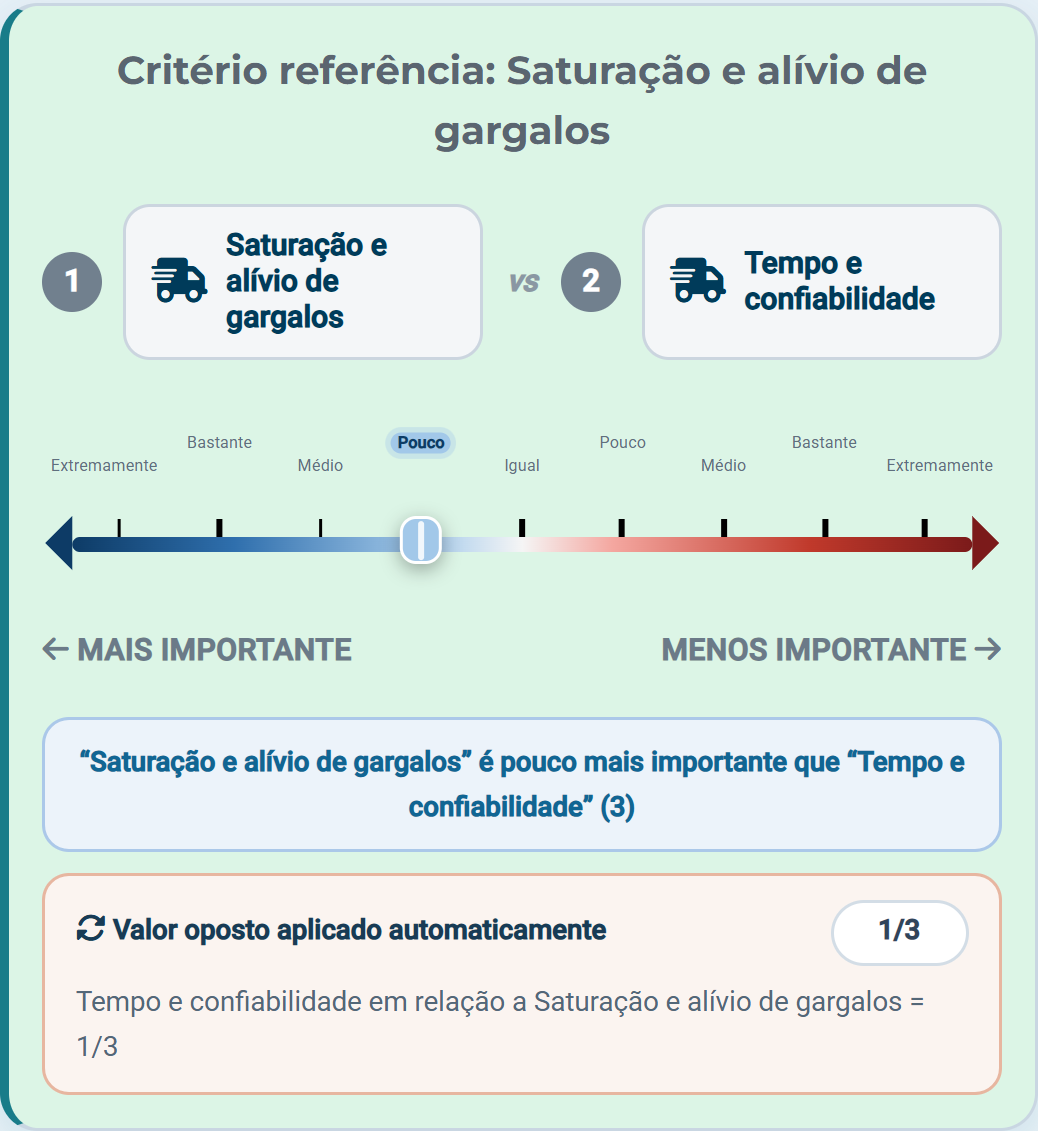
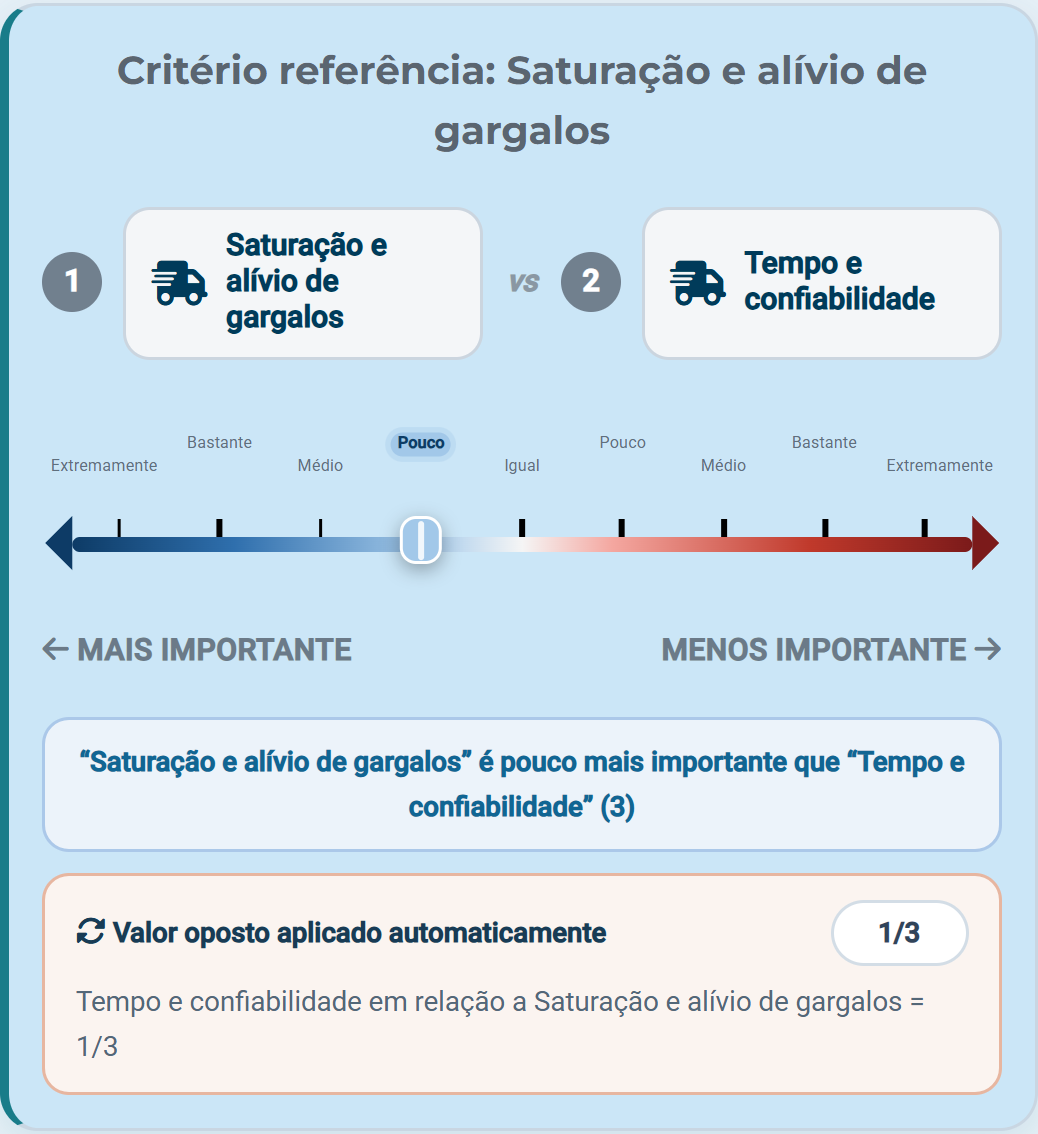
chore: atualizacao SICARD 2026-11-26 16:42

diff --git a/assets/js/paginas/ami-divulgacao.js b/assets/js/paginas/ami-divulgacao.js
@@ -2,7 +2,8 @@
   "use strict";
   const $ = id => document.getElementById("ami-divulgacao-" + id);
   const painel = document.getElementById("ami-divulgacao");
-  const tabela = $("tabela"), contatoForm = $("contato"), assunto = $("assunto"), mensagem = $("mensagem");
+  const tabela = $("tabela"), contatoForm = $("contato"), remetente = $("alias-remetente"),
+    assunto = $("assunto"), mensagem = $("mensagem");
   const mensagemDepois = $("mensagem-depois");
   const modal = $("modal"), modalForm = $("modal-form");
   const envio = {enviando: "Resultado pendente", aceito_smtp: "Aceito pelo servidor de e-mail", falha: "Falha no envio", indeterminado: "Resultado indeterminado"};
@@ -14,18 +15,20 @@
   }
 
   function mensagemEditada(contexto) {
-    if (!assunto.reportValidity()) return null;
-    if (!assunto.value.trim() || (!mensagem.value.trim() && !mensagemDepois.value.trim())) {
-      $("status").textContent = "Informe o assunto e a mensagem.";
+    if (!remetente.reportValidity() || !assunto.reportValidity()) return null;
+    const alias_remetente = remetente.value.trim();
+    if (!alias_remetente || !assunto.value.trim() || (!mensagem.value.trim() && !mensagemDepois.value.trim())) {
+      $("status").textContent = "Informe o nome do remetente, o assunto e a mensagem.";
       return null;
     }
-    return {assunto: assunto.value, texto: textoDoEditor(contexto)};
+    return {alias_remetente, assunto: assunto.value, texto: textoDoEditor(contexto)};
   }
 
   function aplicarEdicao(contexto, edicao) {
     if (contexto !== atual) return;
     const conteudo = edicao.rascunho || edicao.padrao;
     const indice = conteudo.texto.indexOf(contexto.link);
+    remetente.value = conteudo.alias_remetente;
     assunto.value = conteudo.assunto;
     mensagem.value = indice < 0 ? conteudo.texto : conteudo.texto.slice(0, indice).trimEnd();
     mensagemDepois.value = indice < 0 ? "" : conteudo.texto.slice(indice + contexto.link.length).trimStart();
@@ -82,7 +85,7 @@
     $("prazo").classList.toggle("is-hidden", modo !== "edit" || !atual || coletaAberta);
     $("pendencias").classList.toggle("is-hidden", modo !== "edit" || !pendente);
     [$("nome"), $("email"), $("instituicao"), $("adicionar"), $("arquivo"), $("listas")].forEach(campo => { campo.disabled = !pronto; });
-    [assunto, mensagem, mensagemDepois].forEach(campo => { campo.readOnly = !editavel || !atual.edicao; });
+    [remetente, assunto, mensagem, mensagemDepois].forEach(campo => { campo.readOnly = !editavel || !atual.edicao; });
     $("salvar-mensagem").disabled = !pronto || !atual.edicao || !atual.editorAlterado;
     if (!$("enviar")) return;
     const marcados = atual ? selecionados() : [];
@@ -431,7 +434,7 @@
         urlMensagem: "/api/ahp/comparacao-colaborativa/ambientes/" + encodeURIComponent(julgamento.id) + "/emails/mensagem"};
       atual = contexto;
       renderizar(contexto);
-      assunto.value = mensagem.value = mensagemDepois.value = "";
+      remetente.value = assunto.value = mensagem.value = mensagemDepois.value = "";
       $("status").textContent = "Carregando lista de divulgação…";
       carregar(contexto).then(() => {
         if (atual === contexto) {
@@ -493,10 +496,11 @@
     }
   };
   $("modal-fechar").addEventListener("click", () => modal.close());
-  [assunto, mensagem, mensagemDepois].forEach(campo => campo.addEventListener("input", () => {
+  [remetente, assunto, mensagem, mensagemDepois].forEach(campo => campo.addEventListener("input", () => {
     if (!atual?.edicao) return;
     const anterior = atual.edicao.rascunho || atual.edicao.padrao;
-    atual.editorAlterado = assunto.value !== anterior.assunto || textoDoEditor(atual) !== anterior.texto;
+    atual.editorAlterado = remetente.value.trim() !== anterior.alias_remetente ||
+      assunto.value !== anterior.assunto || textoDoEditor(atual) !== anterior.texto;
     controles();
   }));
   $("salvar-mensagem").addEventListener("click", salvarMensagem);

diff --git a/templates/paginas/analise_multicriterio/formulario.html b/templates/paginas/analise_multicriterio/formulario.html
@@ -13,7 +13,7 @@
 {% block classes_body %}ahp-module-page ahp-colaborativa-page ami-public-page escala-revisada{% endblock %}
 {% block base_url %}<base href="/public/analise-multicriterio/formulario-comparacao-pareada/">{% endblock %}
 {% block estilos_pagina %}
-	<link rel="stylesheet" href="/assets/css/ahp-module.css?v=20261103-regua-invertida">
+	<link rel="stylesheet" href="/assets/css/ahp-module.css?v=20261126-validacao-rc">
 	<link rel="stylesheet" href="/assets/css/analise-multicriterio.css?v=20260819-ui6">
 	<link rel="stylesheet" href="/assets/css/escala-tipografica.css">
 	<link rel="stylesheet" href="/assets/css/page-title-standard.css?v=20260820-3">
@@ -193,7 +193,7 @@
 							</aside>
 							<div id="collab-panel-form" role="tabpanel" aria-labelledby="collab-tab-form">
 								<p class="ami-section-intro">Registre uma escolha em cada cartão. A régua pode ser ajustada até o envio.</p>
-								<p id="collab-form-legend" class="collab-pairwise-intro">O destaque verde confirma o registro do par. Você ainda pode revisar a escolha.</p>
+								<p id="collab-form-legend" class="collab-pairwise-intro">O azul-claro indica um par confirmado. Quando a Razão de Consistência (RC) fica abaixo de 0,10, todos os cartões confirmados ficam verdes. Você ainda pode revisar suas escolhas.</p>
 								<div id="comparisonContent" class="ahp-comparison-content"></div>
 							</div>
 							<div id="collab-panel-matrix" role="tabpanel" aria-labelledby="collab-tab-matrix" hidden>
@@ -246,7 +246,7 @@
 	{% if modo_inscricao %}<script defer src="/assets/js/paginas/ahp-codigo-retomada.js?v=20261124"></script>{% endif %}
 	{% if modo_modelo %}<script defer src="/restrict/ahp/js/colaborativa-modelo.js?v=20261126-contexto-formulario"></script>{% elif not modo_inscricao %}<script defer src="/restrict/ahp/js/colaborativa-simulacao.js?v=20261126-contexto-formulario"></script>{% endif %}
 	<script defer src="/restrict/ahp/js/script.js?v=20261124-resposta-regua"></script>
-	<script defer src="/restrict/ahp/js/colaborativa.js?v=20261126-link-convite"></script>
+	<script defer src="/restrict/ahp/js/colaborativa.js?v=20261126-validacao-rc"></script>
 	<script defer src="/assets/js/paginas/ahp-comparacao-abas.js?v=20261124-matriz-pli"></script>
 	<script defer src="/assets/js/paginas/ahp-formulario-layout.js?v=20261104-card-default-90"></script>
 {% endblock %}

diff --git a/templates/componentes/analise_multicriterio/_divulgacao_link_publico.html b/templates/componentes/analise_multicriterio/_divulgacao_link_publico.html
@@ -26,7 +26,8 @@
       <section class="ahp-subcard" aria-labelledby="ami-divulgacao-mensagem-title">
         <h4 class="ahp-subsection-title" id="ami-divulgacao-mensagem-title">Mensagem de e-mail</h4>
         <div class="ahp-section-body">
-          <p class="ami-section-intro">Defina o assunto e o conteúdo da mensagem que será enviada aos destinatários selecionados para divulgar a inscrição.</p>
+          <p class="ami-section-intro">Defina o nome do remetente, o assunto e o conteúdo do e-mail de divulgação da inscrição.</p>
+          <label class="c-form-group" for="ami-divulgacao-alias-remetente">Nome do remetente<input class="c-form-control" id="ami-divulgacao-alias-remetente" type="text" maxlength="200" autocomplete="off" required></label>
           <label class="c-form-group" for="ami-divulgacao-assunto">Assunto do e-mail<input class="c-form-control" id="ami-divulgacao-assunto" maxlength="200" required></label>
           <label class="c-form-group" for="ami-divulgacao-mensagem">Mensagem antes do link<textarea class="c-form-control collab-email-template" id="ami-divulgacao-mensagem" rows="10" maxlength="49000" aria-describedby="ami-divulgacao-link-ajuda"></textarea></label>
           <div class="c-form-group ami-divulgacao-link">

diff --git a/assets/css/ahp-module.css b/assets/css/ahp-module.css
@@ -2985,9 +2985,11 @@ a.ahp-progress-step:hover {
   background: var(--pfs-green-light);
 }
 
-/* A validação do par colore apenas o fundo do card; os elementos internos
-   mantêm a aparência normal. */
 .ahp-colaborativa-page .saaty-pair.is-auto-validated {
+  background: #cbe6f7;
+}
+
+.ahp-colaborativa-page #comparisonContent.is-rc-acceptable .saaty-pair.is-auto-validated {
   background: var(--pfs-green-light);
 }
 
@@ -2996,7 +2998,7 @@ a.ahp-progress-step:hover {
 }
 
 /* Fundos opacos: equivalem aos tons translúcidos sobre o card branco e evitam que
-   o verde do card validado se misture aos elementos internos. */
+   o fundo do card validado se misture aos elementos internos. */
 .ahp-colaborativa-page .saaty-readout--pos {
   background: #ecf3fa;
 }

diff --git a/templates/paginas/analise_multicriterio/central-respostas.html b/templates/paginas/analise_multicriterio/central-respostas.html
@@ -229,7 +229,7 @@
   <script src="/assets/js/paginas/analise-multicriterio-tabela.js?v=20261126-contextos-ahp"></script>
   <script src="/assets/js/api-erro.js?v=20261027"></script>
   <script src="/assets/js/paginas/ami-email.js?v=20261126-email-prazo"></script>
-  {% if modo_pagina == 'espaco' %}<script src="/assets/js/paginas/ami-divulgacao.js?v=20261126-email-ahp"></script>{% endif %}
+  {% if modo_pagina == 'espaco' %}<script src="/assets/js/paginas/ami-divulgacao.js?v=20261126-email-remetente"></script>{% endif %}
   <script src="/assets/js/matriz-criterios-arquivo.js?v=20261009"></script>
   <script src="/assets/js/matrizes-criterios.js?v=20261126-contextos-ahp"></script>
   <script src="/assets/js/saaty-selector-color.js?v=20261103-1"></script>

diff --git a/ahp/js/colaborativa.js b/ahp/js/colaborativa.js
@@ -327,6 +327,7 @@
     var matrizGravada = matrizParaGravar(matrix);
     var complete = paresRespondidos(matrix);
     var consistent = res.CR < LIMITE_RC;
+    el("comparisonContent").classList.toggle("is-rc-acceptable", consistent);
     [["metricLambdaValue", res.lambdaMax], ["metricICValue", res.CI], ["metricRCValue", res.CR]].forEach(function ([id, value]) {
       var metric = el(id), formatted = SLTAhp.formatMetric(value);
       if (metric.textContent !== formatted) metric.textContent = formatted;

diff --git a/tests/test_divulgacao_ahp.py b/tests/test_divulgacao_ahp.py
@@ -9,7 +9,7 @@ from fastapi.testclient import TestClient
 from api.exceptions import DemandaValidationError
 from api.schemas.email import (
     DivulgacaoEmailEnvioSchema, EmailEnvioResultado, ExclusaoDestinatariosDivulgacaoSchema,
-    ListaDivulgacaoSchema, MensagemDivulgacaoSchema, SalvamentoListaDivulgacaoSchema,
+    ListaDivulgacaoSchema, MensagemDivulgacaoSchema, RascunhoEmailAhpSchema, SalvamentoListaDivulgacaoSchema,
 )
 from api.server import app
 from api.services import divulgacao_ahp
@@ -125,6 +125,36 @@ def test_divulgacao_envia_link_comum_e_mantem_historico_separado(rodada):
     contatos["ana@example.org"]["inscrito_em"] = datetime.now(timezone.utc)
     with pytest.raises(DemandaValidationError, match="já está inscrito"):
         divulgacao_ahp.enviar("rodada", reenvio.model_copy(update={"operacao_id": uuid4()}), "gestor", base_url=base)
+
+
+def test_divulgacao_usa_nome_de_exibicao_do_rascunho_so_na_operacao(monkeypatch, rodada):
+    ambiente, _, mensagens = rodada
+    ambiente["id"] = "rodada"
+    base = "https://sicard.example.org/sicard"
+    link = base + "/public/analise-multicriterio/participar/link-da-rodada/"
+    rascunhos = divulgacao_ahp.email_ahp_rascunho
+    rascunho_id, operacao_id = uuid4(), uuid4()
+    rascunho = {}
+
+    def salvar(ambiente_id, editor_id, dados):
+        assert (ambiente_id, editor_id) == ("rodada", "gestor")
+        rascunho.update(dados.model_dump(), id=rascunho_id)
+        return rascunho
+
+    def vincular(_conn, ambiente_id, editor_id, rascunho_usado, operacao):
+        assert (ambiente_id, editor_id, rascunho_usado, operacao) == ("rodada", "gestor", rascunho_id, operacao_id)
+        return rascunho
+
+    monkeypatch.setattr(rascunhos.repo, "salvar", salvar)
+    monkeypatch.setattr(rascunhos.repo, "vincular", vincular)
+    rascunhos.salvar("rodada", "gestor",
+                    RascunhoEmailAhpSchema(alias_remetente="Equipe do Workshop PLI", assunto="Convite", texto=f"Olá!\n\n{link}"), base)
+    divulgacao_ahp.adicionar("rodada", ListaDivulgacaoSchema(destinatarios=[{"nome": "Ana", "destinatario": "ana@example.org"}]))
+    primeiro = DivulgacaoEmailEnvioSchema(destinatario="ana@example.org", operacao_id=operacao_id, rascunho_id=rascunho_id)
+    seguinte = DivulgacaoEmailEnvioSchema(destinatario="ana@example.org", operacao_id=uuid4(), reenvio=True)
+    divulgacao_ahp.enviar("rodada", primeiro, "gestor", base_url=base)
+    divulgacao_ahp.enviar("rodada", seguinte, "gestor", base_url=base)
+    assert [mensagem.alias_remetente for mensagem in mensagens] == ["Equipe do Workshop PLI", "SICARD-PLI"]
 
 
 def test_divulgacao_recusa_modo_convite_e_requer_sessao(rodada):
